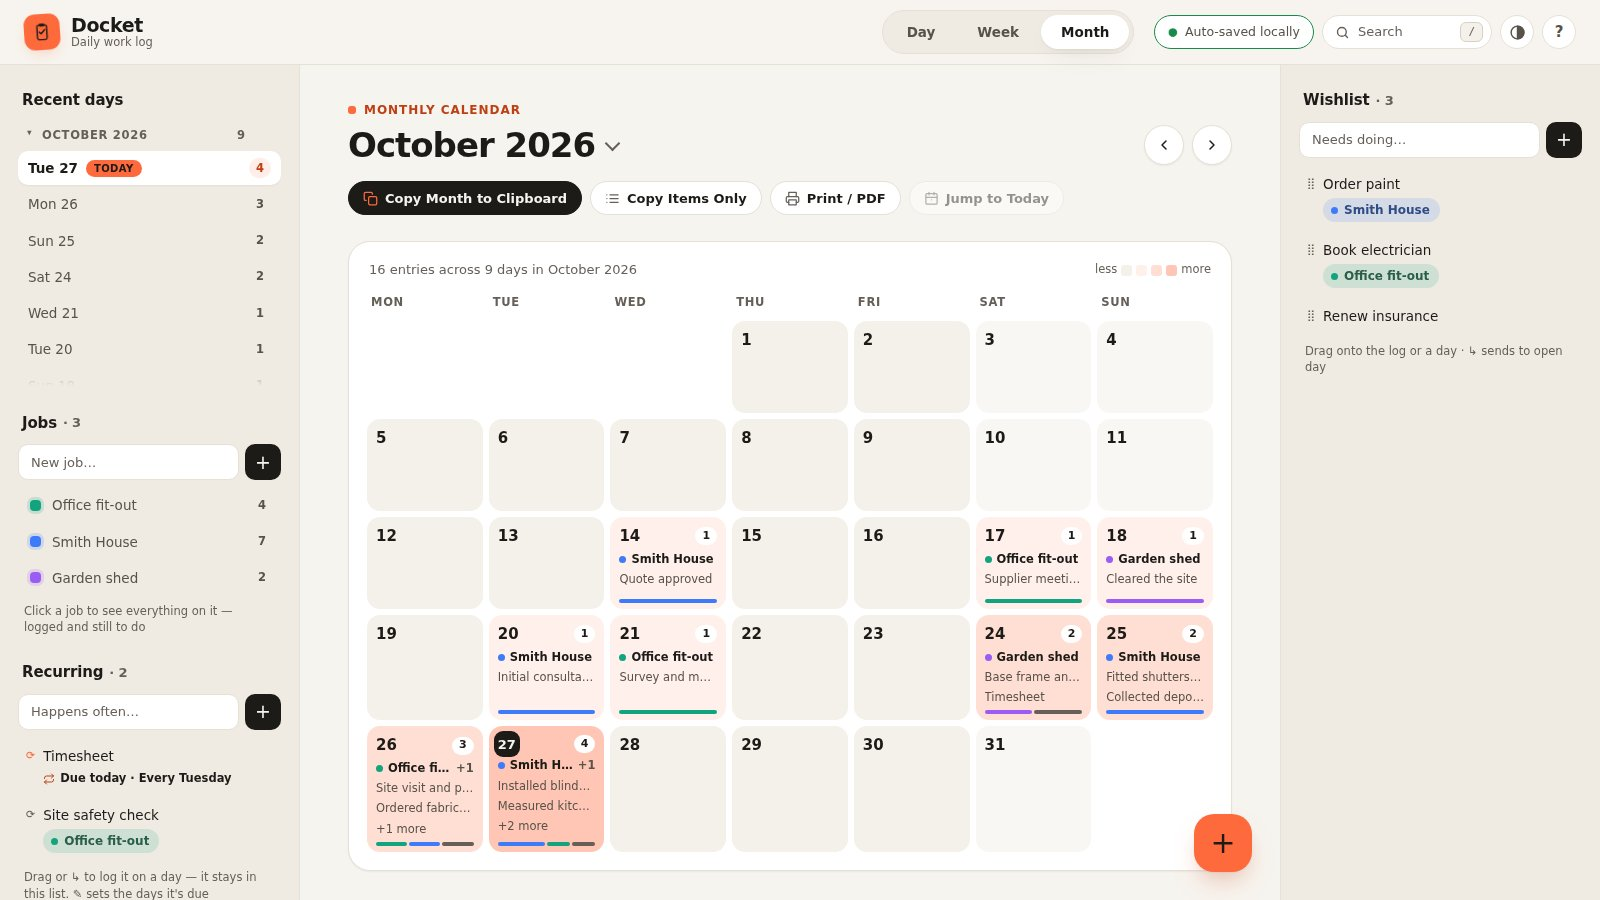
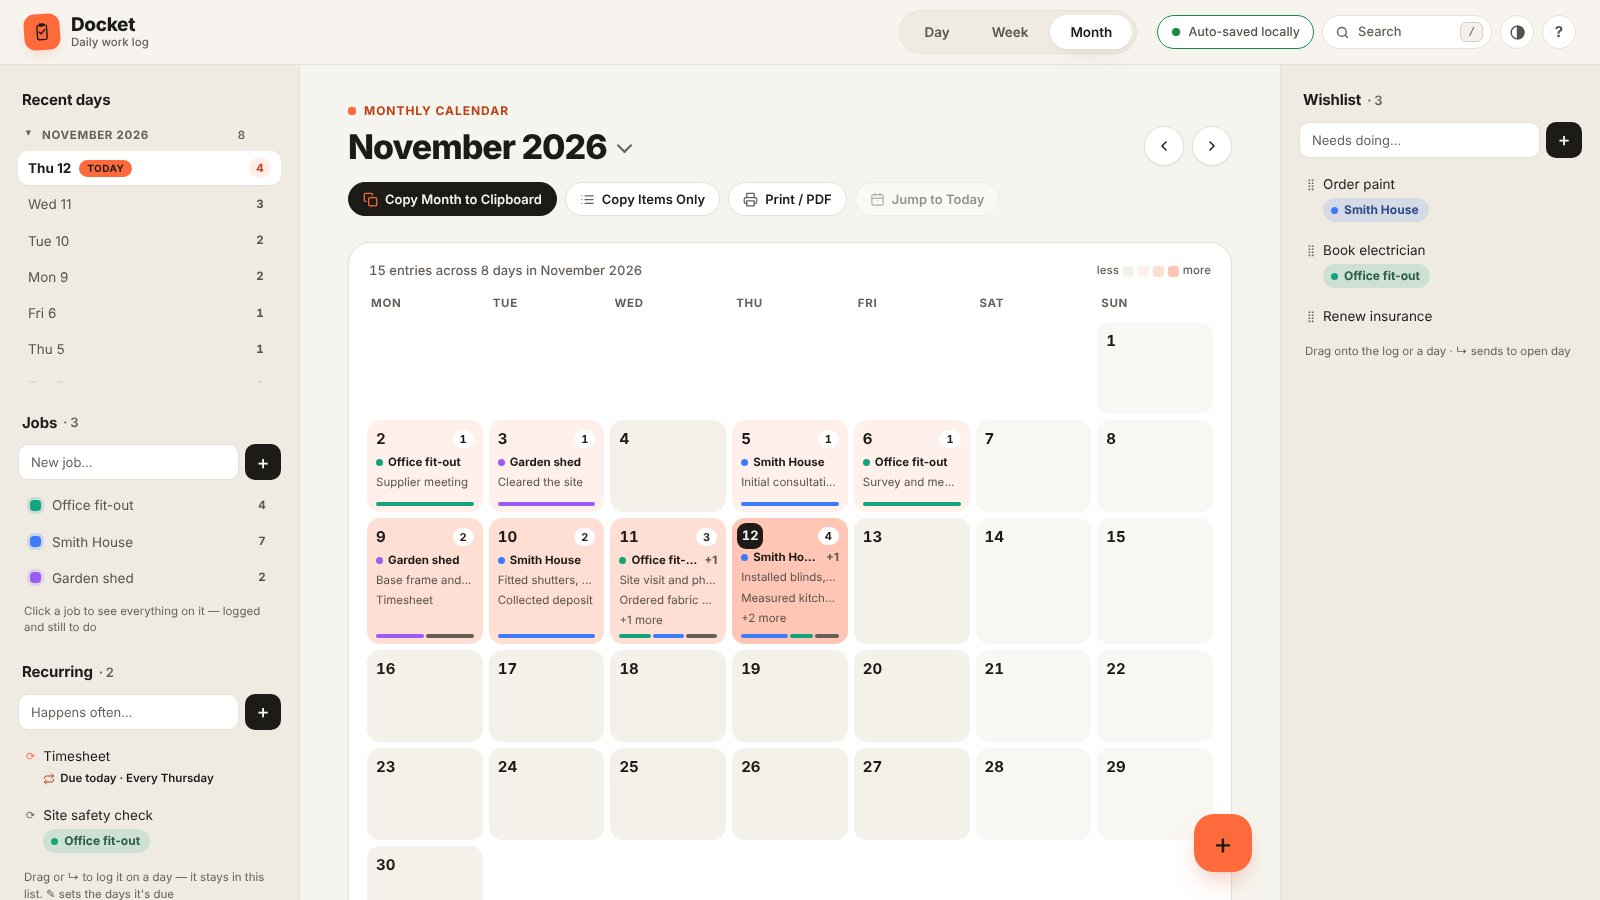
Fix CI on GitHub's new runner image; steadier tests; instant Turn off
- CI and Release pinned to ubuntu-24.04: ubuntu-latest moved to 26.04,
  where Playwright 1.56 can't install a browser. Test tooling updated to
  Playwright 1.63.
- Auto-backup tests run in a normal persistent profile: newer Chromium
  crashes reading a stored OPFS handle from IndexedDB in an incognito-like
  profile (a browser bug real use doesn't hit). Their folder helper now
  tolerates a file pruned mid-read.
- Turn off auto-backup updates the screen immediately.
- Screenshots regenerated.

Claude-Session: https://claude.ai/code/session_01H9fPMwvFvgNvqPDu1kdh6L

diff --git a/tests/autobackup.spec.js b/tests/autobackup.spec.js
@@ -2,9 +2,23 @@
 // can't click through, so it's stubbed to hand back a real folder from the
 // browser's private file system — every write, read and delete after that
 // is the real File System Access API.
+//
+// These tests run in a normal (persistent) browser profile, as people use
+// Docket. Chromium 14x crashes when a stored private-file-system folder is
+// read back from IndexedDB in a throwaway incognito-like profile — the kind
+// Playwright gives each test by default — which has nothing to do with the app.
 "use strict";
 
-const { test, expect } = require("@playwright/test");
+const { test: base, expect } = require("@playwright/test");
+
+const test = base.extend({
+  page: async ({ playwright, baseURL, viewport }, use, testInfo) => {
+    const ctx = await playwright.chromium.launchPersistentContext(testInfo.outputPath("profile"), { baseURL, viewport, serviceWorkers: "block" });
+    const page = ctx.pages()[0] || await ctx.newPage();
+    await use(page);
+    await ctx.close();
+  }
+});
 const { check, iso, seed, state } = require("./helpers");
 
 const T = iso(0);
@@ -21,7 +35,10 @@ function folder(page) {
     const dir = await (await navigator.storage.getDirectory()).getDirectoryHandle("Docket backups", { create: true });
     const out = {};
     const it = dir.values();
-    for (let r = await it.next(); !r.done; r = await it.next()) out[r.value.name] = await (await r.value.getFile()).text();
+    for (let r = await it.next(); !r.done; r = await it.next()) {
+      // the app may prune a file between listing and reading it
+      try { out[r.value.name] = await (await r.value.getFile()).text(); } catch { /* gone */ }
+    }
     return out;
   });
 }
@@ -78,6 +95,10 @@ test("back up to a folder automatically after every change", async ({ page }) =>
   await page.click("#autoOffBtn");
   check(await page.isVisible("#autoOnBtn") && !(await page.isVisible("#autoStat")), "Turn off goes back to the offer");
   check((await page.textContent("#toast")).includes("stay there"), "…and says the files stay");
+  await page.waitForFunction(() => new Promise((ok) => {
+    const o = indexedDB.open("docket", 1);
+    o.onsuccess = () => { const r = o.result.transaction("kv").objectStore("kv").get("backupDir"); r.onsuccess = () => { o.result.close(); ok(!r.result); }; };
+  }));
   await page.reload();
   check(await page.isVisible("#autoOnBtn"), "…and stays off after a reload");
   check(errors.length === 0, "no page errors " + JSON.stringify(errors));

diff --git a/src/app.js b/src/app.js
@@ -2601,10 +2601,12 @@
     auto.dir = null;
     auto.state = "off";
     auto.at = null;
-    try { await handleStore("readwrite", function (st) { return st.delete("backupDir"); }); } catch (e) { /* nothing stored */ }
+    // the screen answers at once; forgetting the folder can finish after
     renderAutoBackup();
     renderBackupStatus();
+    $("autoOnBtn").focus(); // the button that was clicked is gone now
     toast("Auto-backup off — the files already in “" + name + "” stay there");
+    try { await handleStore("readwrite", function (st) { return st.delete("backupDir"); }); } catch (e) { /* nothing stored */ }
   }
 
   function renderAutoBackup() {

diff --git a/CHANGELOG.md b/CHANGELOG.md
@@ -14,10 +14,19 @@ A visual, security and functional audit: fixes only, no new features.
   25 MB are refused straight away with a message; real backups are a few MB.
 - Skipping a task under **Due today** in one tab left it showing in another open
   tab until that tab redrew. Both tabs now stay in step.
+- **Turn off** auto-backup now updates the screen at once, instead of after the
+  browser finished forgetting the folder.
 - On phones, a **Due today** task with a job squeezed its name into a narrow column.
   The task now has its own line, with its job and buttons beneath.
 
-### Tests
+### Tests and CI
+- **CI was failing before any test ran:** GitHub moved `ubuntu-latest` to Ubuntu
+  26.04, where Playwright 1.56 can't install its browser. CI and Release now run on
+  `ubuntu-24.04`, and the test tooling is updated to Playwright 1.63.
+- Newer Chromium crashes when a stored private-file-system folder is read back from
+  IndexedDB in a throwaway, incognito-like profile. That's a browser bug that
+  real use doesn't hit (a normal profile works). The auto-backup tests now run in a
+  normal persistent profile, like real use.
 - The accessibility scan could fail by timing: a message fading out on its own
   timer was sometimes scanned half-transparent (this failed the 2.7 pull request
   check once). Messages are now held still during scans, and the message bar has
